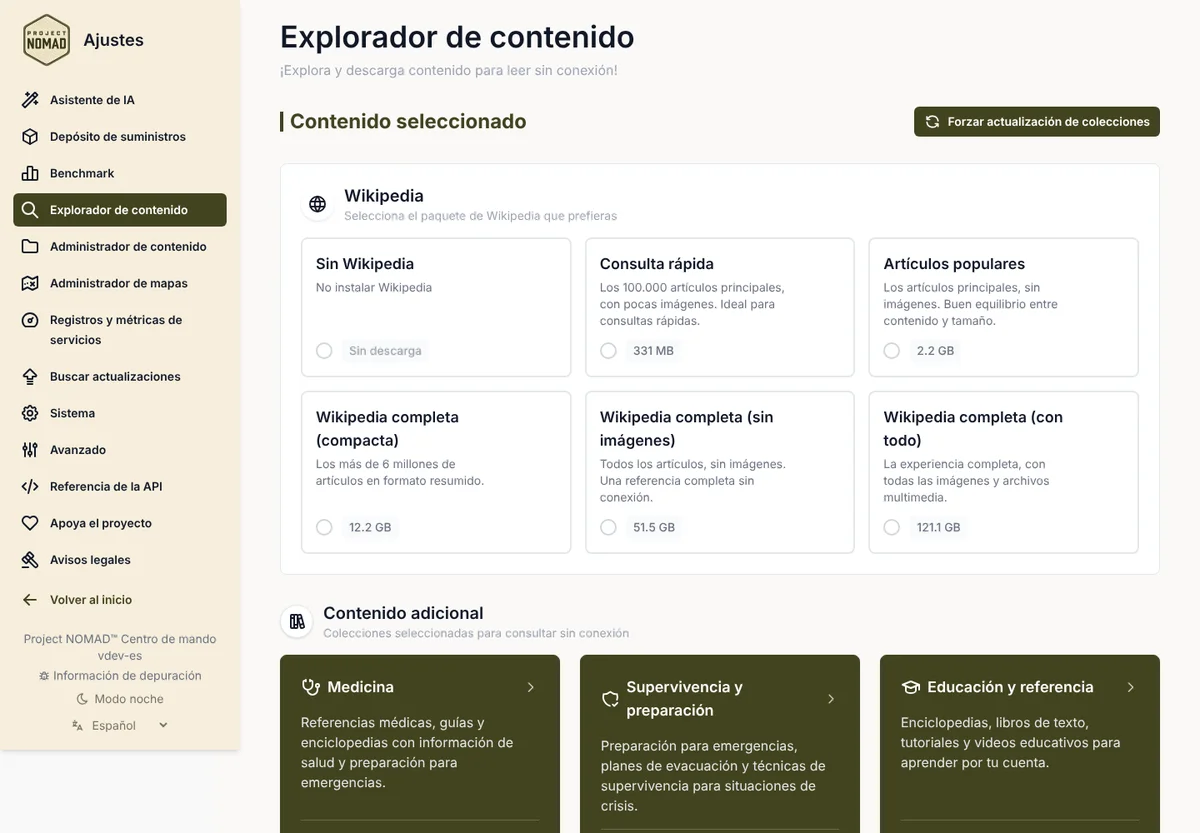
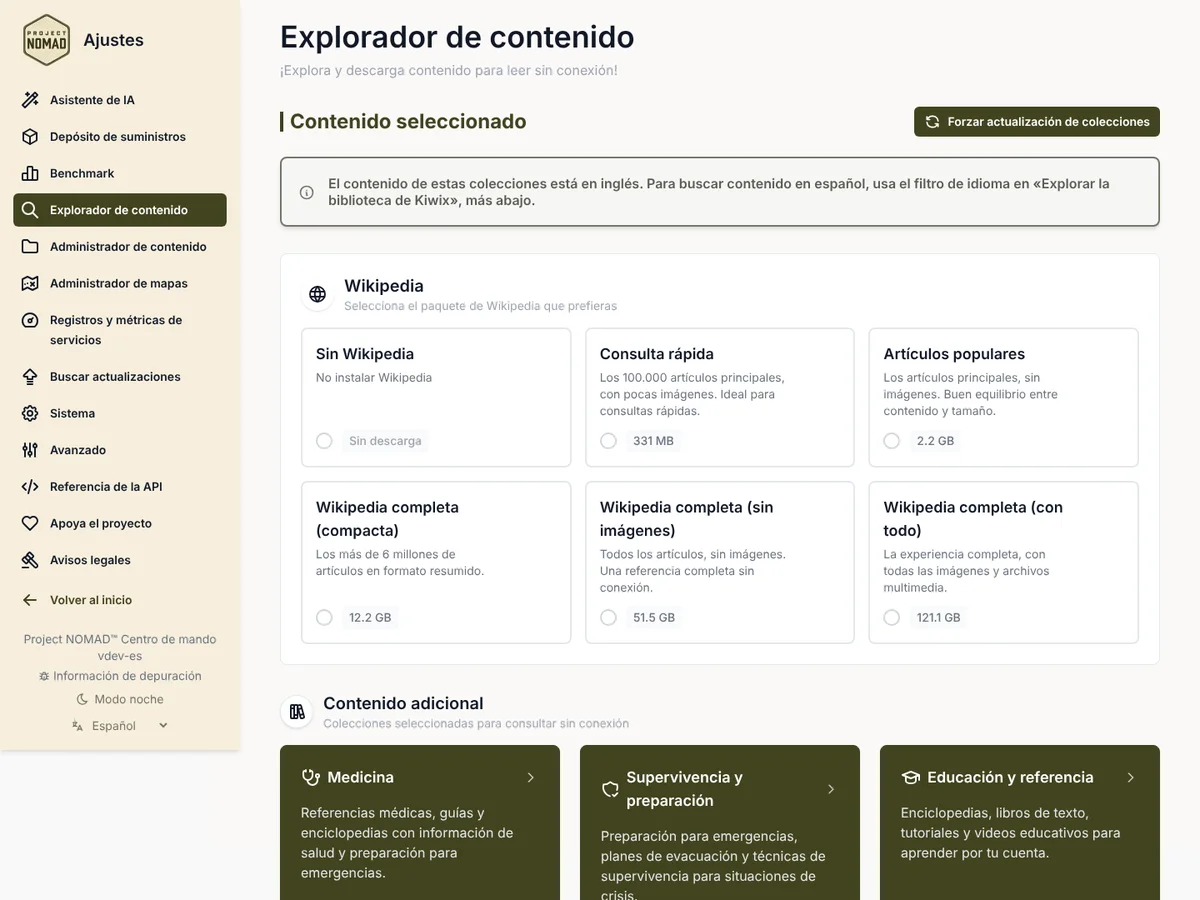
i18n: aviso de que el contenido de las colecciones está en inglés
Como los nombres de las colecciones ahora se ven en español, se avisa en
el Explorador de contenido y en el paso de contenido de la Configuración
rápida que lo que se descarga está en inglés, y cómo buscar contenido en
español con el filtro de idioma de Kiwix. En inglés el aviso no se
muestra.

Claude-Session: https://claude.ai/code/session_01CbdzJJL7hP6okArmXdXFME

diff --git a/admin/inertia/pages/easy-setup/index.tsx b/admin/inertia/pages/easy-setup/index.tsx
@@ -923,6 +923,10 @@ export default function EasySetupWizard(props: {
           </p>
         </div>
 
+        {isInformationSelected && t('step3.englishContentNote') && (
+          <Alert title={t('step3.englishContentNote')} type="info" variant="bordered" className="mb-6" />
+        )}
+
         {/* Wikipedia Selection - Only show if Information capability is selected */}
         {isInformationSelected && (
           <div className="mb-8">

diff --git a/admin/inertia/pages/settings/zim/remote-explorer.tsx b/admin/inertia/pages/settings/zim/remote-explorer.tsx
@@ -529,6 +529,9 @@ export default function ZimRemoteExplorer() {
               {t('explorer.forceRefresh')}
             </StyledButton>
           </div>
+          {t('explorer.englishContentNote') && (
+            <Alert title={t('explorer.englishContentNote')} type="info" variant="bordered" className="mb-6" />
+          )}
 
           {/* Wikipedia Selector */}
           {isLoadingWikipedia ? (
